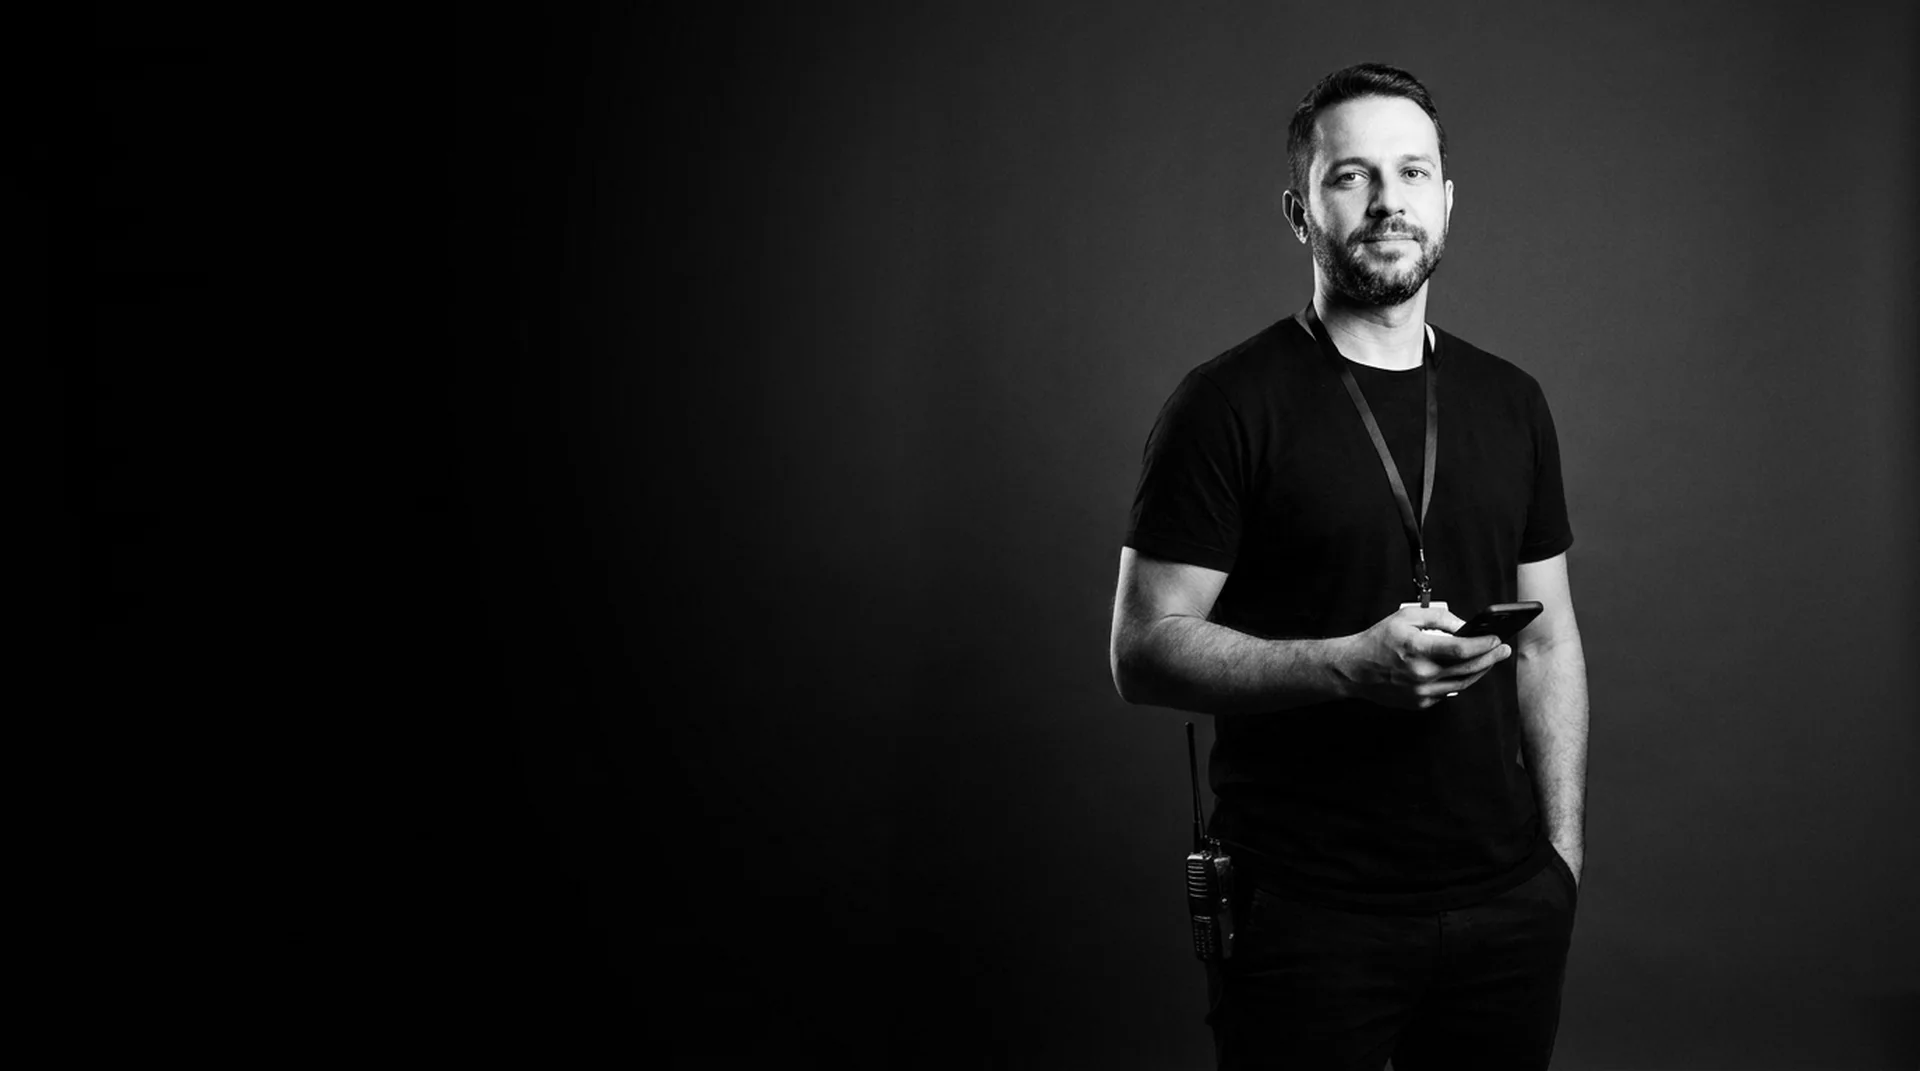
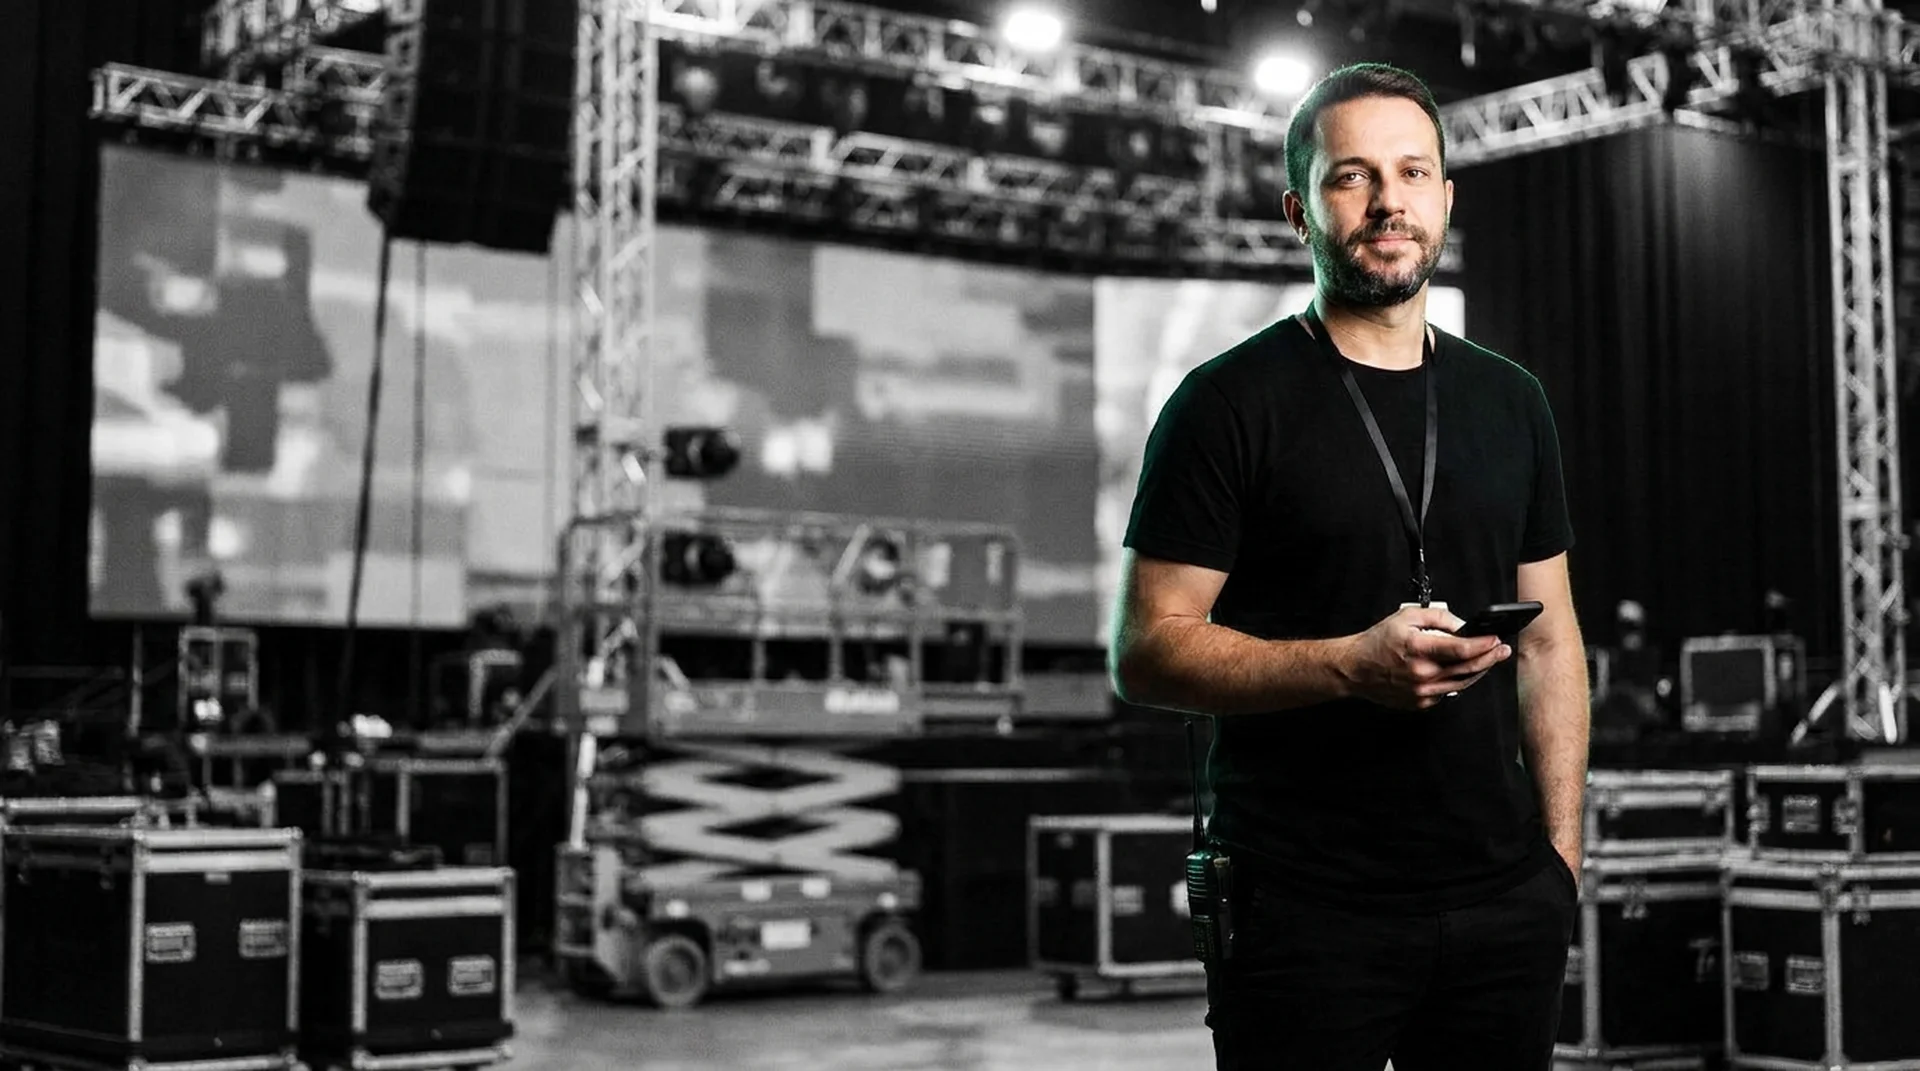
Home: produtor de eventos e sócia do escritório no mesmo processo (cena preto e cinza + pessoa acendendo)
Claude-Session: https://claude.ai/code/session_01G58D6pGUDmbuCZZ57jM7Ew

diff --git a/home/index.html b/home/index.html
@@ -56,7 +56,7 @@ nav .btn{padding:12px 20px;border-radius:999px;background:var(--green);color:#0a
 <nav><div class="bar"><a class="lg" href="/"><b>[</b> kompila <b>]</b></a><div class="links"><a href="#produtos">Produtos</a><a href="#tudo">Tudo ligado</a><a href="#prova">Prova</a><a href="#equipe">Equipe</a><a href="#blog">Blog</a></div><a class="btn" href="#diagnostico">Falar com a Kompila</a></div></nav>
 
 <section class="hero" id="topo">
-  <div class="bg" aria-hidden="true"><div class="slide on"><img class="bw" src="img/hero-moda-bw.webp" alt=""><img class="cor" src="img/hero-moda.webp" alt=""></div><div class="slide"><img class="bw" src="img/hero-led.webp" alt=""></div><div class="slide"><img class="bw" src="img/hero-contab.webp" alt=""></div></div>
+  <div class="bg" aria-hidden="true"><div class="slide on"><img class="bw" src="img/hero-moda-bw.webp" alt=""><img class="cor" src="img/hero-moda.webp" alt=""></div><div class="slide"><img class="bw" src="img/hero-led-bw.webp" alt=""><img class="cor" src="img/hero-led.webp" alt=""></div><div class="slide"><img class="bw" src="img/hero-contab-bw.webp" alt=""><img class="cor" src="img/hero-contab.webp" alt=""></div></div>
   <div class="fade" aria-hidden="true"></div>
   <div class="target" aria-hidden="true"><svg class="br l" viewBox="0 0 60 100" preserveAspectRatio="none"><path d="M60 2 H6 V98 H60" fill="none" stroke="currentColor" stroke-width="9" vector-effect="non-scaling-stroke"/></svg><svg class="br r" viewBox="0 0 60 100" preserveAspectRatio="none"><path d="M0 2 H54 V98 H0" fill="none" stroke="currentColor" stroke-width="9" vector-effect="non-scaling-stroke"/></svg></div>
   <div class="shell hgrid">
